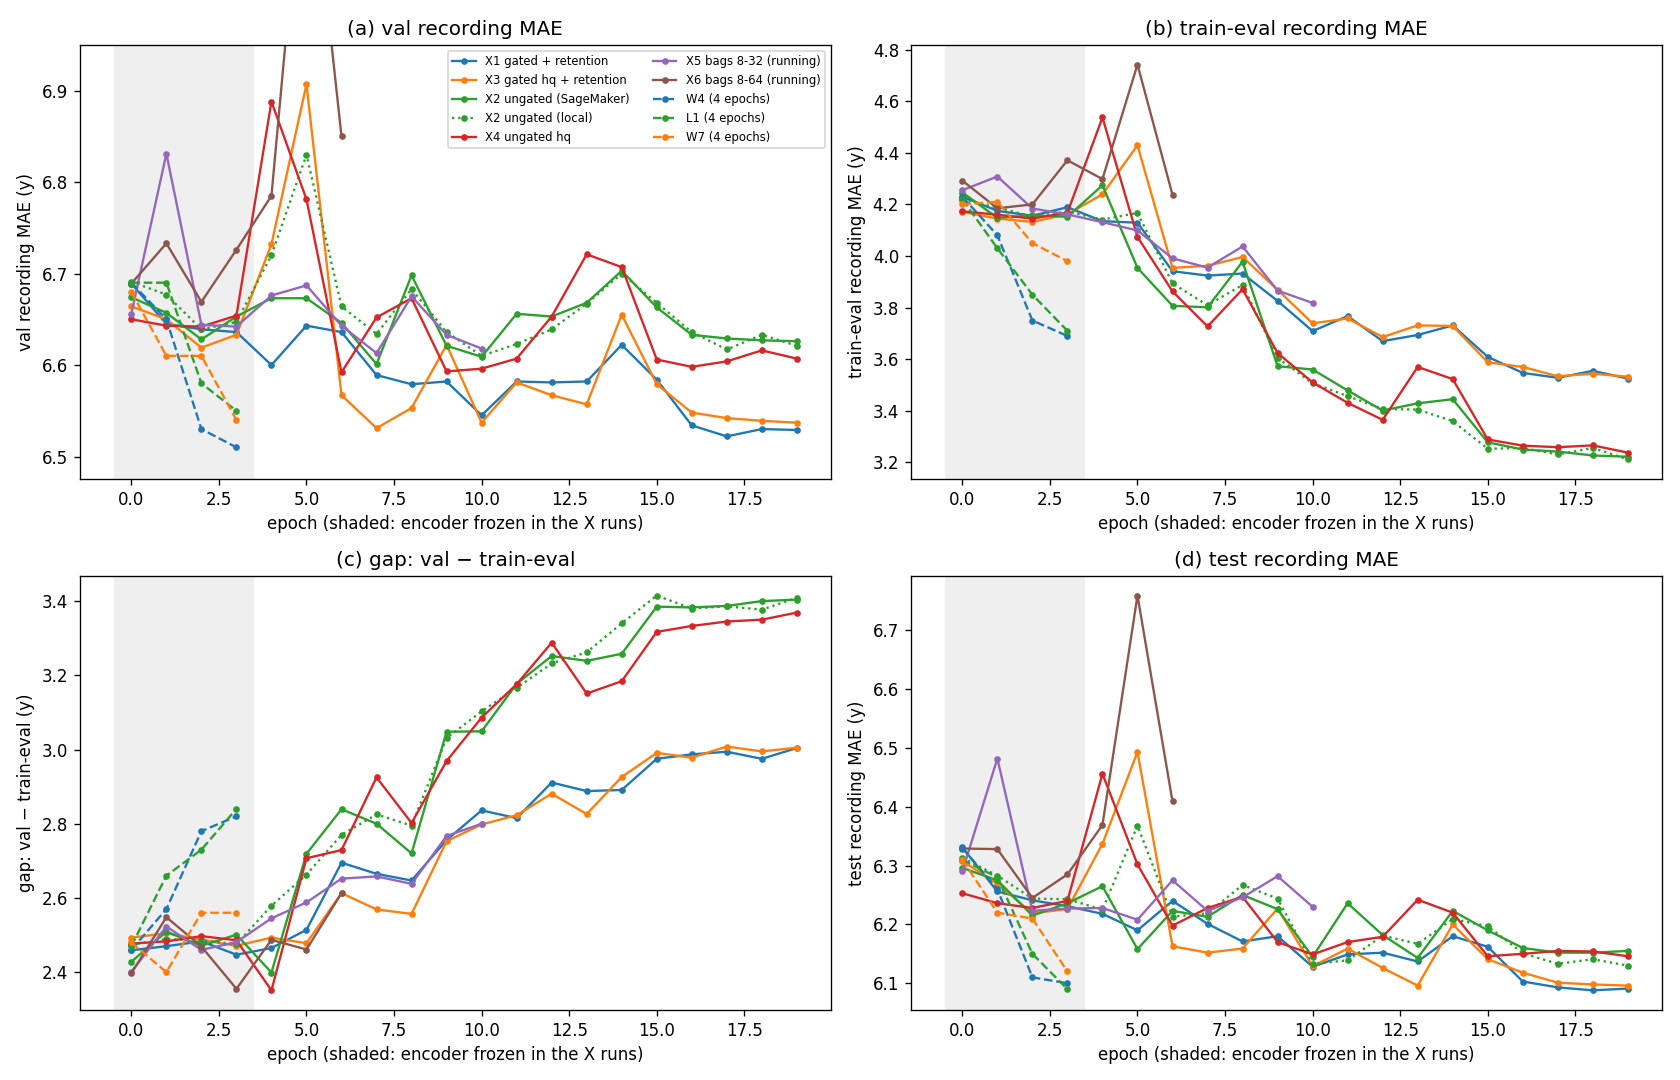
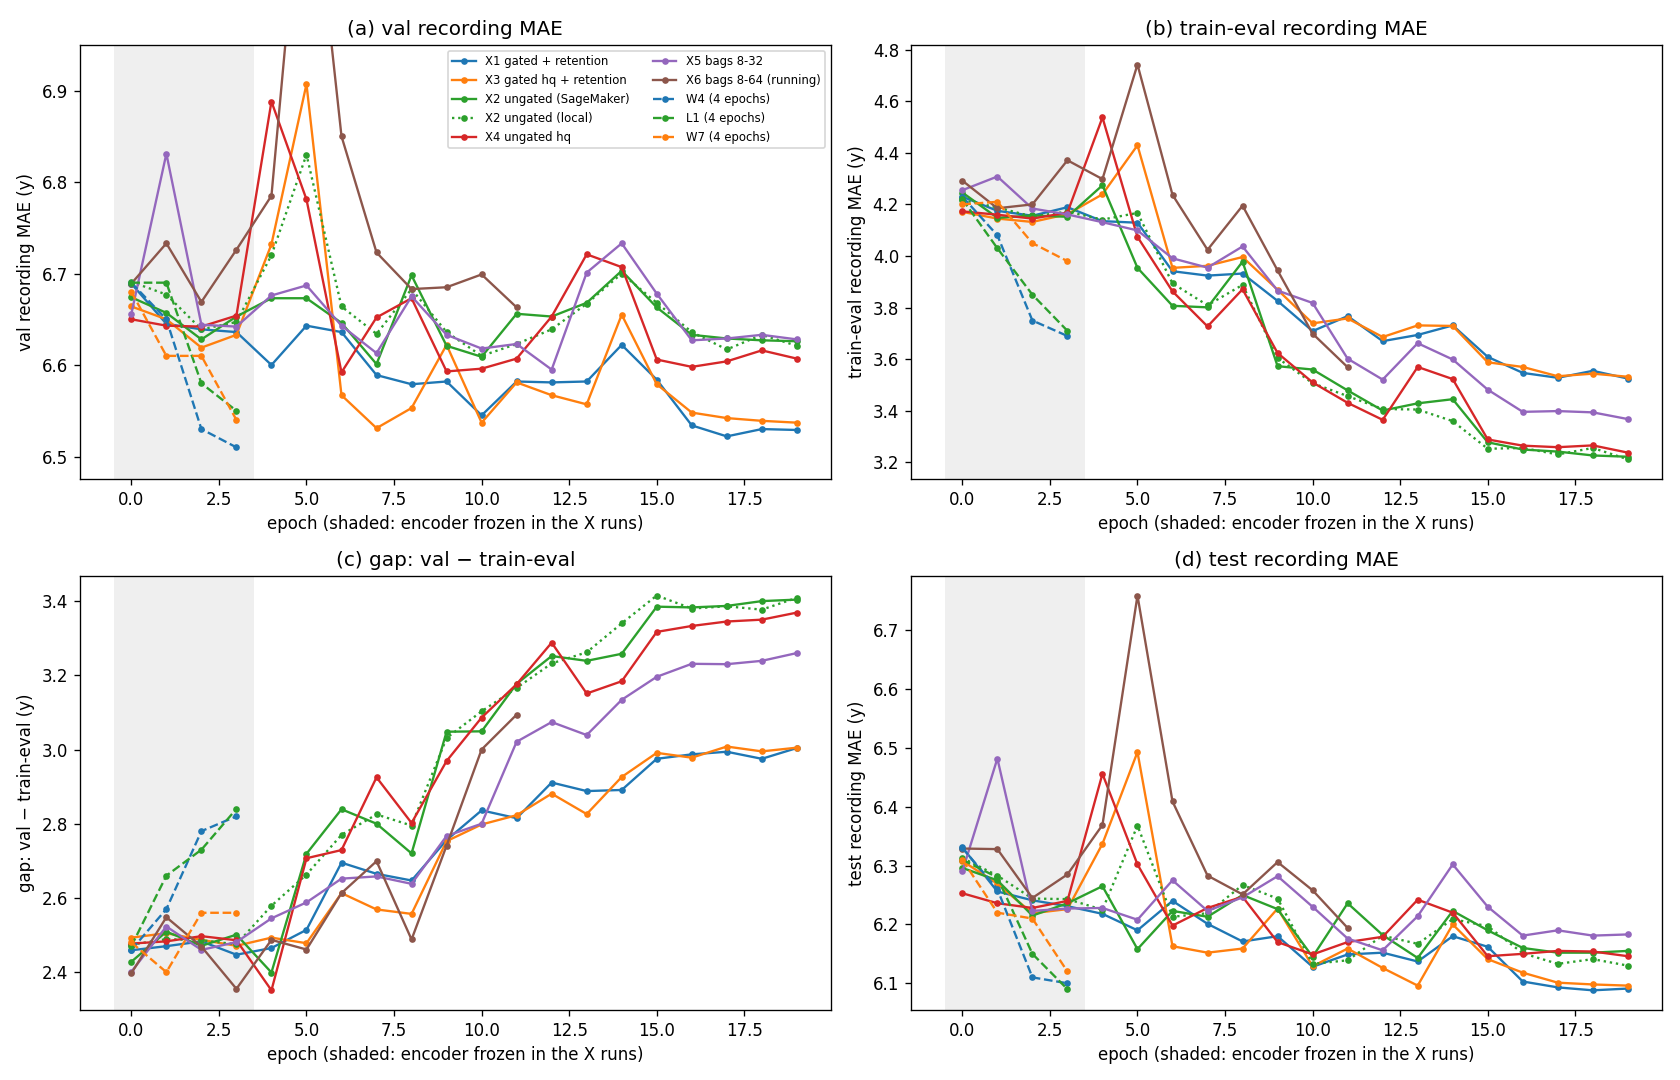
MIL: X5 results (best 6.59 / 6.16 at epoch 12) in Tables 12.1, 12.3, 12.5-12.7 and Figure 12.1; X6 to epoch 11; fix Eq. (12.1) escapes

diff --git a/scripts/mil_x_fit_plot.py b/scripts/mil_x_fit_plot.py
@@ -22,7 +22,7 @@ STYLE = {"X1": ("C0", "-"), "X3": ("C1", "-"), "X2 (SageMaker)": ("C2", "-"), "X
          "X4": ("C3", "-"), "X5": ("C4", "-"), "X6": ("C5", "-"),
          "W4": ("C0", "--"), "L1": ("C2", "--"), "W7": ("C1", "--")}
 LABEL = {"X1": "X1 gated + retention", "X3": "X3 gated hq + retention", "X2 (SageMaker)": "X2 ungated (SageMaker)",
-         "X2 (local)": "X2 ungated (local)", "X4": "X4 ungated hq", "X5": "X5 bags 8-32 (running)",
+         "X2 (local)": "X2 ungated (local)", "X4": "X4 ungated hq", "X5": "X5 bags 8-32",
          "X6": "X6 bags 8-64 (running)", "W4": "W4 (4 epochs)", "L1": "L1 (4 epochs)", "W7": "W7 (4 epochs)"}
 
 

diff --git a/scripts/mil_cohort_summary.py b/scripts/mil_cohort_summary.py
@@ -88,7 +88,8 @@ def collect():
         bag["S4 F2"] = (f2[0], 10)
     # 20-epoch warm starts (section 12), at their best val epoch; the SageMaker
     # X2 lost epochs 7-12 to spot interruptions, so its last epoch is used.
-    for name, sub, ep in (("X1", "x1", 17), ("X3", "x3", 7), ("X4", "x4", 6), ("X2 SM (last)", "x2sm", 19)):
+    for name, sub, ep in (("X1", "x1", 17), ("X3", "x3", 7), ("X4", "x4", 6), ("X2 SM (last)", "x2sm", 19),
+                          ("X5", "x5", 12)):
         bag[name] = (os.path.join(ART, sub, "finetune", "analysis"), ep)
     x2 = glob.glob(os.path.join(LOCAL, "X2_*", "analysis"))
     if x2:

diff --git a/scripts/mil_age_groups.py b/scripts/mil_age_groups.py
@@ -45,6 +45,7 @@ EXPERIMENTS = {
     "X3 gated hq + retention, 20 ep": "X3",
     "X4 ungated hq, 20 ep": "X4",
     "X2 ungated, 20 ep (local)": "X2 local",
+    "X5 bags 8-32, 20 ep": "X5",
 }
 
 

diff --git a/docs/mil_stage1_results.md b/docs/mil_stage1_results.md
@@ -1005,7 +1005,7 @@ Launcher: `scripts/mil_runs/submit_grid.sh` (jobs `X1`–`X6`); X2 also runs on
 the local GPU (`scripts/mil_runs/run_local_abmil.sh trainer.epochs=20
 mil.freeze_encoder_epochs=4`). ClearML project `LaBraM/heedb_mil`.
 
-### Table 12.1. Jobs (status 2026-11-10 07:45 UTC)
+### Table 12.1. Jobs (status 2026-11-10 14:30 UTC)
 
 | job | pool | attention reads | retention | bag | where | status |
 |---|---|---|---|---|---|---|
@@ -1014,8 +1014,8 @@ mil.freeze_encoder_epochs=4`). ClearML project `LaBraM/heedb_mil`.
 | X2 (local) | as X2 | | | | local GPU | done |
 | X3 | gated | $h$ + $q$ | 0.1 | 32 × 8 | SM g5.2xlarge on-demand | done |
 | X4 | ungated | $h$ + $q$ | — | 32 × 8 | SM g5.2xlarge on-demand | done |
-| X5 | gated (X1) | $h$ | 0.1 | 16 × K, K ~ U{8..32} | SM g5.2xlarge on-demand | epoch 13 (best so far 6.60 / 6.16 at epoch 12); ~53 min per epoch; ETA ~14:00 UTC, 10 Nov |
-| X6 | gated (X1) | $h$ | 0.1 | 8 × K, K ~ U{8..64} | SM g5.4xlarge on-demand (resubmitted) | epoch 8 (epoch 7: 6.72 / 6.28, recovering from 7.20 at epoch 5); ~92 min per epoch; ETA ~02:00 UTC, 11 Nov |
+| X5 | gated (X1) | $h$ | 0.1 | 16 × K, K ~ U{8..32} | SM g5.2xlarge on-demand | done (13:49 UTC; ~53 min per trained epoch) |
+| X6 | gated (X1) | $h$ | 0.1 | 8 × K, K ~ U{8..64} | SM g5.4xlarge on-demand (resubmitted) | epoch 12; best so far 6.66 / 6.19 (epoch 11); ~92 min per epoch; ETA ~02:00 UTC, 11 Nov |
 
 Infrastructure notes:
 - **X6, first attempt** (spot `g5.4xlarge`) stopped logging silently in
@@ -1062,7 +1062,7 @@ Infrastructure notes:
 | 18 | 6.53 / 6.09 / 3.56 | 6.63 / 6.15 / 3.23 | 6.63 / 6.14 / 3.26 | 6.54 / 6.10 / 3.54 | 6.62 / 6.15 / 3.27 |
 | 19 | 6.53 / 6.09 / 3.52 | 6.63 / 6.16 / 3.22 | 6.62 / 6.13 / 3.21 | 6.54 / 6.10 / 3.53 | 6.61 / 6.15 / 3.24 |
 
-X5 and X6 (still running) are in Figure 12.1 and `docs/data/mil_x/fit_curves.csv`.
+X5 and X6 (X6 still running) are in Figure 12.1 and `docs/data/mil_x/fit_curves.csv`.
 
 The references:
 
@@ -1097,9 +1097,12 @@ Columns:
 - the gap $g$ and the efficiency $\eta$, defined below.
 
 $$
-g_e = \mathrm{MAE}^{	ext{val}}_e - \mathrm{MAE}^{	ext{train-eval}}_e,\qquad
-\eta = rac{\mathrm{MAE}^{	ext{val}}_	ext{start} - \min_e \mathrm{MAE}^{	ext{val}}_e}{\mathrm{MAE}^{	ext{train-eval}}_	ext{start} - \mathrm{MAE}^{	ext{train-eval}}_	ext{last}}
-	ag{12.1}
+\begin{aligned}
+g_e &= \mathrm{MAE}^{\text{val}}_e - \mathrm{MAE}^{\text{train-eval}}_e,\\
+\eta &= \frac{\mathrm{MAE}^{\text{val}}_\text{start} - \min_e \mathrm{MAE}^{\text{val}}_e}
+{\mathrm{MAE}^{\text{train-eval}}_\text{start} - \mathrm{MAE}^{\text{train-eval}}_\text{last}}
+\end{aligned}
+\tag{12.1}
 $$
 
 $\eta$ is the share of the train-eval improvement that reached val.
@@ -1114,7 +1117,8 @@ $\eta$ is the share of the train-eval improvement that reached val.
 | X2 ungated (SageMaker) | 6.65 → 6.60 (7) | 6.21 / 6.16 | 4.15 → 3.22 | 2.50 → 2.80 → 3.40 | 0.06 |
 | X2 ungated (local) | 6.65 → 6.61 (10) | 6.13 / 6.13 | 4.17 → 3.21 | 2.48 → 3.10 → 3.41 | 0.04 |
 | X4 ungated hq | 6.65 → 6.59 (6) | 6.20 / 6.15 | 4.17 → 3.24 | 2.49 → 2.73 → 3.37 | 0.07 |
-| X5 bags 8–32 (epoch 10 of 20) | 6.64 → 6.61 (7) | 6.22 / 6.23 | 4.16 → 3.82 | 2.48 → 2.66 → 2.80 | 0.08 |
+| X5 bags 8–32 | 6.64 → 6.60 (12) | 6.16 / 6.18 | 4.16 → 3.37 | 2.48 → 3.07 → 3.26 | 0.06 |
+| X6 bags 8–64 (epoch 11 of 20) | 6.73 → 6.66 (11) | 6.19 / 6.19 | 4.37 → 3.57 | 2.35 → 3.09 → 3.09 | 0.08 |
 
 ### Table 12.4. Gap per dataset: L1 after 4 epochs vs. X2 after 20 (same model; val − train-eval, years)
 
@@ -1131,32 +1135,33 @@ Per-recording predictions are rebuilt from the saved attention weights
 - X1 at epoch 17, X3 at 7, X4 at 6, the local X2 at 10;
 - the SageMaker X2 at its last epoch, 19: its epoch 7–12 weights were lost
   to the spot checkpoint-sync lag (see `docs/sagemaker.md`);
-- X5 and X6 are still running. They come from the logged per-dataset values
-  at their best epoch so far (X5 epoch 7, X6 epoch 2), and their val TUH is
-  not split into TUAB / TUEG.
+- X5 at epoch 12, from its saved attention weights like the other finished
+  runs;
+- X6 is still running. It comes from the logged per-dataset values at its
+  best epoch so far (11), and its val TUH is not split into TUAB / TUEG.
 
 Test TUH is the TUAB eval set. **Bold** marks every value within 0.2 y of
 the best value of its column and cohort, i.e. tied with the best at a
 0.2-year noise level. "test all / n / a / u" is all test recordings, then the
 report-normal, -abnormal and unlabelled ones of both datasets. The X2 pair shows run-to-run noise of about 0.05 y
 overall. For the small TUAB cohorts (125–271 recordings) the noise is
-larger, so 0.2 y is a lower bound there. X5 / X6 take part only where their
-values are directly comparable (all, HEEDB, test).
+larger, so 0.2 y is a lower bound there. X6 (running) takes part only where
+its values are directly comparable (all, HEEDB, test).
 
 | run | val all | val TUAB n / a | val TUEG n / a / u | val HEEDB n / a / u | test all / n / a / u | test TUAB n / a | test HEEDB n / a / u |
 |---|---|---|---|---|---|---|---|
 | E2L (reference) | 7.25 | **5.49** / 7.38 | **6.71** / **7.79** / **8.26** | 7.02 / 7.91 / 6.90 | 7.00 / 6.92 / 7.61 / 6.64 | 4.91 / 8.50 | 7.12 / 7.56 / 6.64 |
 | A3 post-hoc window weights (on E2L) | 6.85 | **5.49** / 7.26 | 6.72 / **7.81** / **8.33** | 6.11 / 7.25 / 6.48 | 6.46 / 6.15 / 7.04 / 6.22 | 4.90 / 8.58 | 6.27 / 6.95 / 6.22 |
-| W4 (4 epochs) | **6.51** | **5.42** / **7.13** | **6.57** / **7.76** / 8.58 | **5.50** / **6.87** / **6.02** | **6.10** / **5.61** / **6.84** / **5.83** | **4.45** / 8.20 | **5.72** / **6.77** / **5.83** |
-| L1 (4 epochs) | **6.55** | 5.55 / **7.00** | **6.51** / 7.93 / 8.50 | **5.53** / **6.96** / **6.01** | **6.09** / **5.60** / **6.86** / **5.80** | **4.41** / 8.13 | **5.71** / **6.79** / **5.80** |
-| W7 (4 epochs, retention) | **6.54** | **5.33** / 7.22 | **6.57** / **7.71** / **8.43** | **5.62** / **6.90** / **6.06** | **6.12** / **5.70** / **6.80** / **5.87** | **4.36** / 8.07 | **5.83** / **6.73** / **5.87** |
-| X1 gated + retention (ep 17) | **6.52** | **5.34** / **7.18** | **6.60** / **7.77** / 8.60 | **5.50** / **6.88** / **6.03** | **6.09** / **5.58** / **6.83** / **5.84** | **4.27** / 8.18 | **5.71** / **6.75** / **5.84** |
-| X3 gated hq + retention (ep 7) | **6.53** | **5.40** / 7.34 | **6.67** / **7.79** / 8.68 | **5.59** / **6.85** / **5.99** | **6.15** / **5.74** / **6.86** / **5.87** | **4.43** / 8.17 | **5.87** / **6.78** / **5.87** |
+| W4 (4 epochs) | **6.51** | **5.42** / **7.13** | **6.57** / **7.76** / 8.58 | **5.50** / **6.87** / **6.02** | **6.10** / **5.61** / **6.84** / **5.83** | **4.45** / **8.20** | **5.72** / **6.77** / **5.83** |
+| L1 (4 epochs) | **6.55** | 5.55 / **7.00** | **6.51** / 7.93 / 8.50 | **5.53** / **6.96** / **6.01** | **6.09** / **5.60** / **6.86** / **5.80** | **4.41** / **8.13** | **5.71** / **6.79** / **5.80** |
+| W7 (4 epochs, retention) | **6.54** | **5.33** / 7.22 | **6.57** / **7.71** / **8.43** | **5.62** / **6.90** / **6.06** | **6.12** / **5.70** / **6.80** / **5.87** | **4.36** / **8.07** | **5.83** / **6.73** / **5.87** |
+| X1 gated + retention (ep 17) | **6.52** | **5.34** / **7.18** | **6.60** / **7.77** / 8.60 | **5.50** / **6.88** / **6.03** | **6.09** / **5.58** / **6.83** / **5.84** | **4.27** / **8.18** | **5.71** / **6.75** / **5.84** |
+| X3 gated hq + retention (ep 7) | **6.53** | **5.40** / 7.34 | **6.67** / **7.79** / 8.68 | **5.59** / **6.85** / **5.99** | **6.15** / **5.74** / **6.86** / **5.87** | **4.43** / **8.17** | **5.87** / **6.78** / **5.87** |
 | X4 ungated hq (ep 6) | **6.59** | 5.65 / 7.26 | **6.63** / **7.83** / **8.35** | **5.65** / **6.98** / **6.08** | **6.20** / **5.67** / **6.96** / **5.94** | 4.63 / 8.57 | **5.77** / **6.87** / **5.94** |
 | X2 ungated, local (ep 10) | **6.61** | **5.49** / 7.43 | **6.57** / 7.92 / 8.95 | **5.56** / **6.94** / **6.12** | **6.13** / **5.58** / **6.90** / **5.88** | 4.53 / 8.58 | **5.68** / **6.80** / **5.88** |
-| X2 ungated, SageMaker (ep 19) | **6.63** | 5.53 / 7.33 | 6.74 / 7.94 / 8.54 | **5.51** / **7.02** / **6.12** | **6.16** / **5.61** / **6.92** / **5.90** | 4.62 / 8.24 | **5.71** / **6.84** / **5.90** |
-| X5 bags 8–32 (running, ep 7) | **6.61** | TUH 6.53 n / 7.79 a / 8.67 u | (with TUAB) | **5.65** / **6.91** / **6.11** | **6.22** / 5.82 / **6.90** / **5.96** | 4.50 / **7.76** | 5.96 / **6.85** / **5.96** |
-| X6 bags 8–64 (running, ep 2, frozen) | **6.67** | TUH 6.43 n / 7.81 a / 8.30 u | (with TUAB) | 5.84 / **7.00** / 6.20 | **6.25** / 5.80 / **6.91** / 6.01 | 4.49 / 8.17 | 5.93 / **6.84** / 6.01 |
+| X2 ungated, SageMaker (ep 19) | **6.63** | **5.53** / 7.33 | 6.74 / 7.94 / 8.54 | **5.51** / **7.02** / **6.12** | **6.16** / **5.61** / **6.92** / **5.90** | 4.62 / **8.24** | **5.71** / **6.84** / **5.90** |
+| X5 bags 8–32 (ep 12) | **6.59** | **5.45** / **7.16** | 6.73 / **7.90** / 8.65 | **5.61** / **6.93** / **6.06** | **6.16** / **5.65** / **6.88** / **5.91** | **4.47** / **8.27** | **5.76** / **6.81** / **5.91** |
+| X6 bags 8–64 (running, ep 11) | **6.66** | TUH 6.52 n / 7.87 a / 8.84 u | (with TUAB) | **5.64** / **6.97** / **6.17** | **6.19** / **5.76** / **6.94** / **5.90** | 4.75 / **8.24** | **5.86** / **6.86** / **5.90** |
 
 ### Table 12.6. $R^2$ per cohort at the best val epoch (same runs, epochs and columns as Table 12.5)
 
@@ -1169,8 +1174,7 @@ The sums run over the recordings $r$ of cohort $G$, with $\bar y_G$ that
 cohort's mean age (`scripts/mil_cohort_summary.py`, column `r2 <group>`).
 $R^2$ within a cohort is lower than over all recordings, because the age
 range of a single cohort is narrower. **Bold** is the best value per
-column (ties at three decimals all bold). X5 and X6 log only MAE per epoch, so their $R^2$ follows when they
-finish.
+column (ties at three decimals all bold). X6 logs only MAE per epoch, so its $R^2$ follows when it finishes.
 
 | run | val all | val TUAB n / a | val TUEG n / a / u | val HEEDB n / a / u | test all / n / a / u | test TUAB n / a | test HEEDB n / a / u |
 |---|---|---|---|---|---|---|---|
@@ -1184,6 +1188,7 @@ finish.
 | X4 ungated hq (ep 6) | 0.778 | 0.757 / 0.592 | 0.701 / 0.615 / 0.375 | 0.838 / 0.762 / 0.832 | 0.822 / 0.834 / 0.764 / 0.838 | 0.869 / 0.567 | 0.831 / 0.773 / 0.838 |
 | X2 ungated, local (ep 10) | 0.775 | 0.776 / 0.560 | 0.698 / 0.615 / 0.306 | 0.841 / 0.760 / 0.828 | 0.822 / 0.838 / 0.765 / 0.836 | 0.874 / 0.572 | **0.835** / 0.774 / 0.836 |
 | X2 ungated, SageMaker (ep 19) | 0.775 | 0.767 / 0.588 | 0.688 / 0.613 / 0.359 | 0.845 / 0.756 / 0.829 | 0.821 / 0.835 / 0.765 / 0.836 | 0.863 / 0.611 | 0.832 / 0.772 / 0.836 |
+| X5 bags 8–32 (ep 12) | 0.779 | 0.774 / 0.608 | 0.690 / 0.618 / 0.338 | 0.840 / 0.765 / 0.835 | 0.824 / 0.835 / 0.771 / 0.839 | 0.879 / 0.605 | 0.832 / 0.778 / 0.839 |
 
 Per cohort, Tables 12.5 and 12.6 show:
 * **HEEDB:** the long runs equal the 4-epoch ones (val normal 5.50–5.65,
@@ -1194,8 +1199,18 @@ Per cohort, Tables 12.5 and 12.6 show:
   cohort, so these are within about 0.3 y of each other. Without retention
   (X4, both X2s), TUAB normal gets worse (5.49–5.65 val).
 * **TUAB abnormal:** L1 after 4 epochs stays best on val (7.00); no X run
-  reaches it (7.18–7.43). On test, X5 has the lowest value so far (7.76,
-  running), but on 125 recordings.
+  reaches it (7.16–7.43). On test, W7 (8.07) and the X runs with retention
+  (8.17–8.18) lead, on 125 recordings. X5's 7.76 at epoch 7 did not hold
+  (8.27 at its best val epoch 12).
+* **X5 (random bag sizes 8–32) ends with the runs without extra
+  regularization:**
+  - 6.59 / 6.16 at epoch 12, against X1's 6.52 / 6.09;
+  - its final gap is 3.26, between X1's 3.00 and X2's 3.40;
+  - TUAB normal 5.45 val / 4.47 test;
+  - in Table 12.7 it does best at 60–69 (5.72) but worse at 80+ (8.82), and
+    has the lowest abnormal separation ($d$ 0.20).
+  
+  Larger, variable bags do not help over fixed 8-window bags.
 * **A3 (post-hoc window weights on E2L, no retraining)** gets about half of
   the attention models' HEEDB gain (val normal 7.02 → 6.11 vs 5.50 for X1 /
   W4; test all 7.00 → 6.46 vs 6.09). It leaves TUAB and TUEG at E2L's level,
@@ -1234,6 +1249,7 @@ Rows are from `scripts/mil_age_groups.py` (CSVs in `docs/data/mil_age/`).
 | X3 (20 ep) | 4.35 | 4.78 | 6.28 | 7.09 | 6.40 | 6.06 | **5.93** | **7.97** | −0.15 | 0.25 / 0.47 / 0.22 | 0.586 |
 | X4 (20 ep) | 3.63 | 4.70 | 6.37 | 6.90 | 6.13 | 6.10 | 6.43 | 8.57 | −0.15 | 0.22 / 0.46 / 0.19 | 0.576 |
 | X2 local (20 ep) | **3.56** | **4.51** | 6.15 | 7.01 | 6.36 | 6.15 | 6.27 | 8.01 | **−0.15** | 0.22 / 0.47 / 0.20 | 0.575 |
+| X5 (20 ep) | 4.53 | 4.95 | 6.28 | 7.01 | 6.08 | 5.72 | 6.14 | 8.82 | −0.18 | 0.20 / 0.41 / 0.18 | 0.573 |
 
 * **Long training leaves the age profile of the error unchanged.** Every
   attention run has $\beta \approx -0.15$ to $-0.17$, vs −0.30 for E2L.
